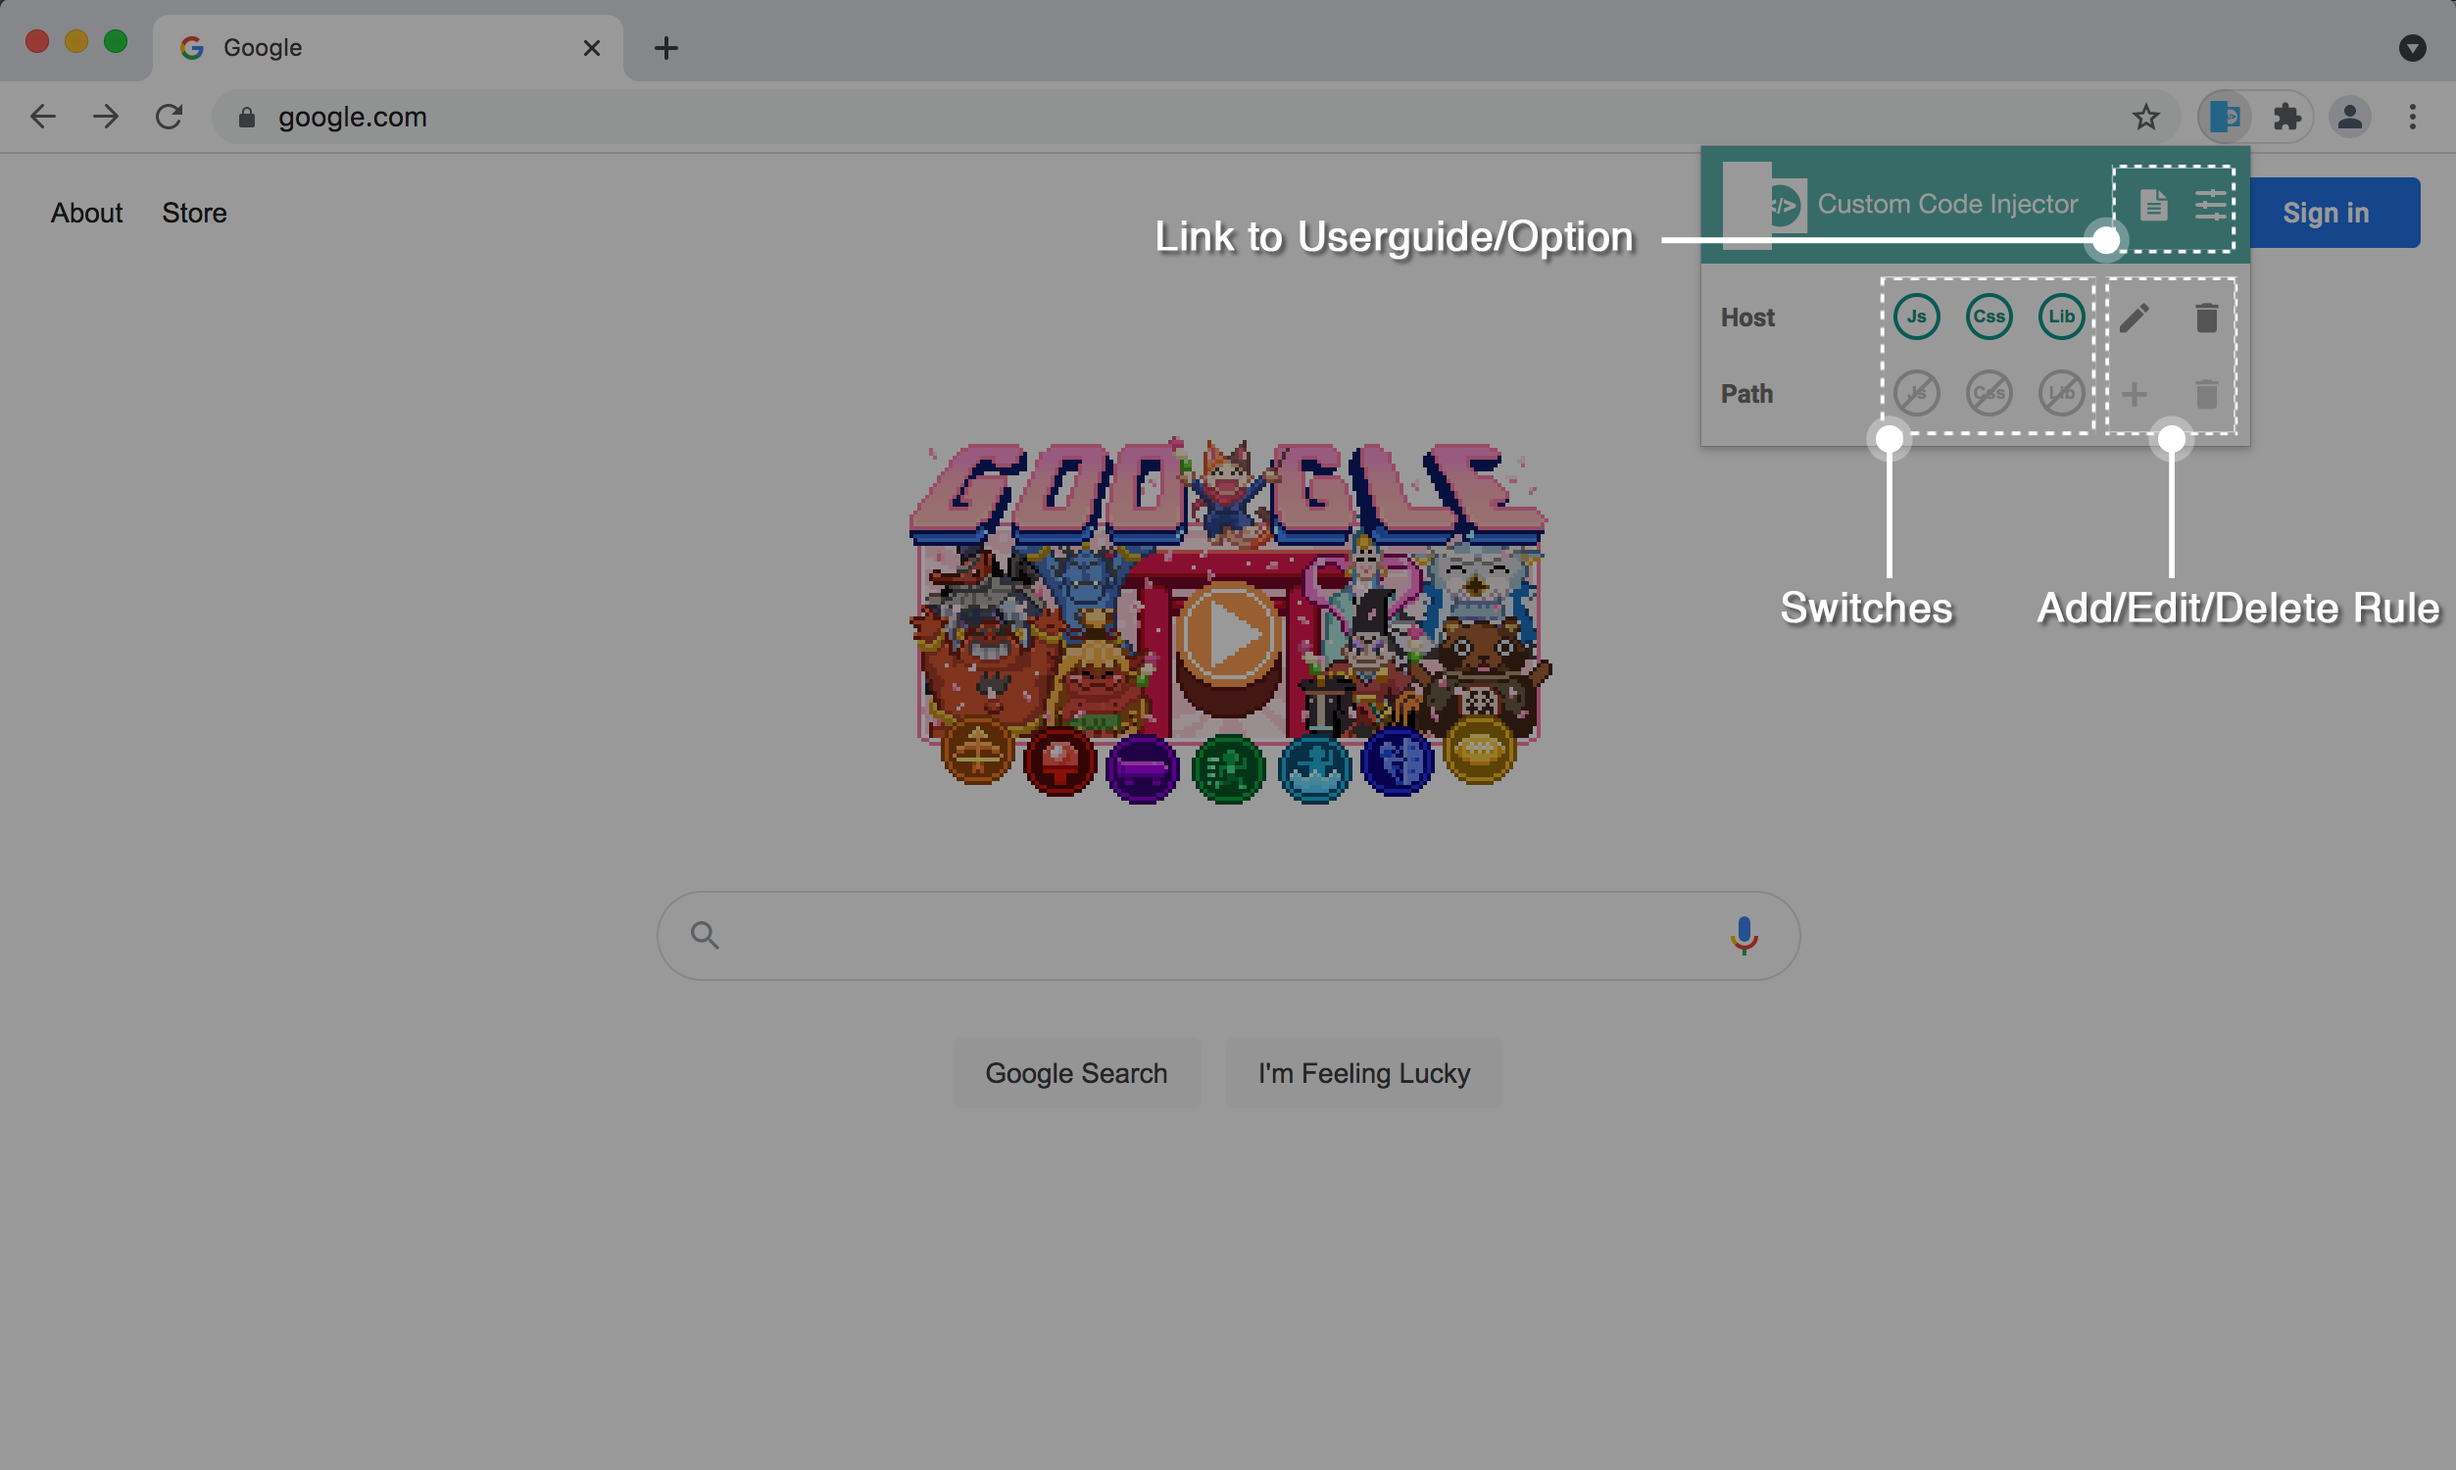
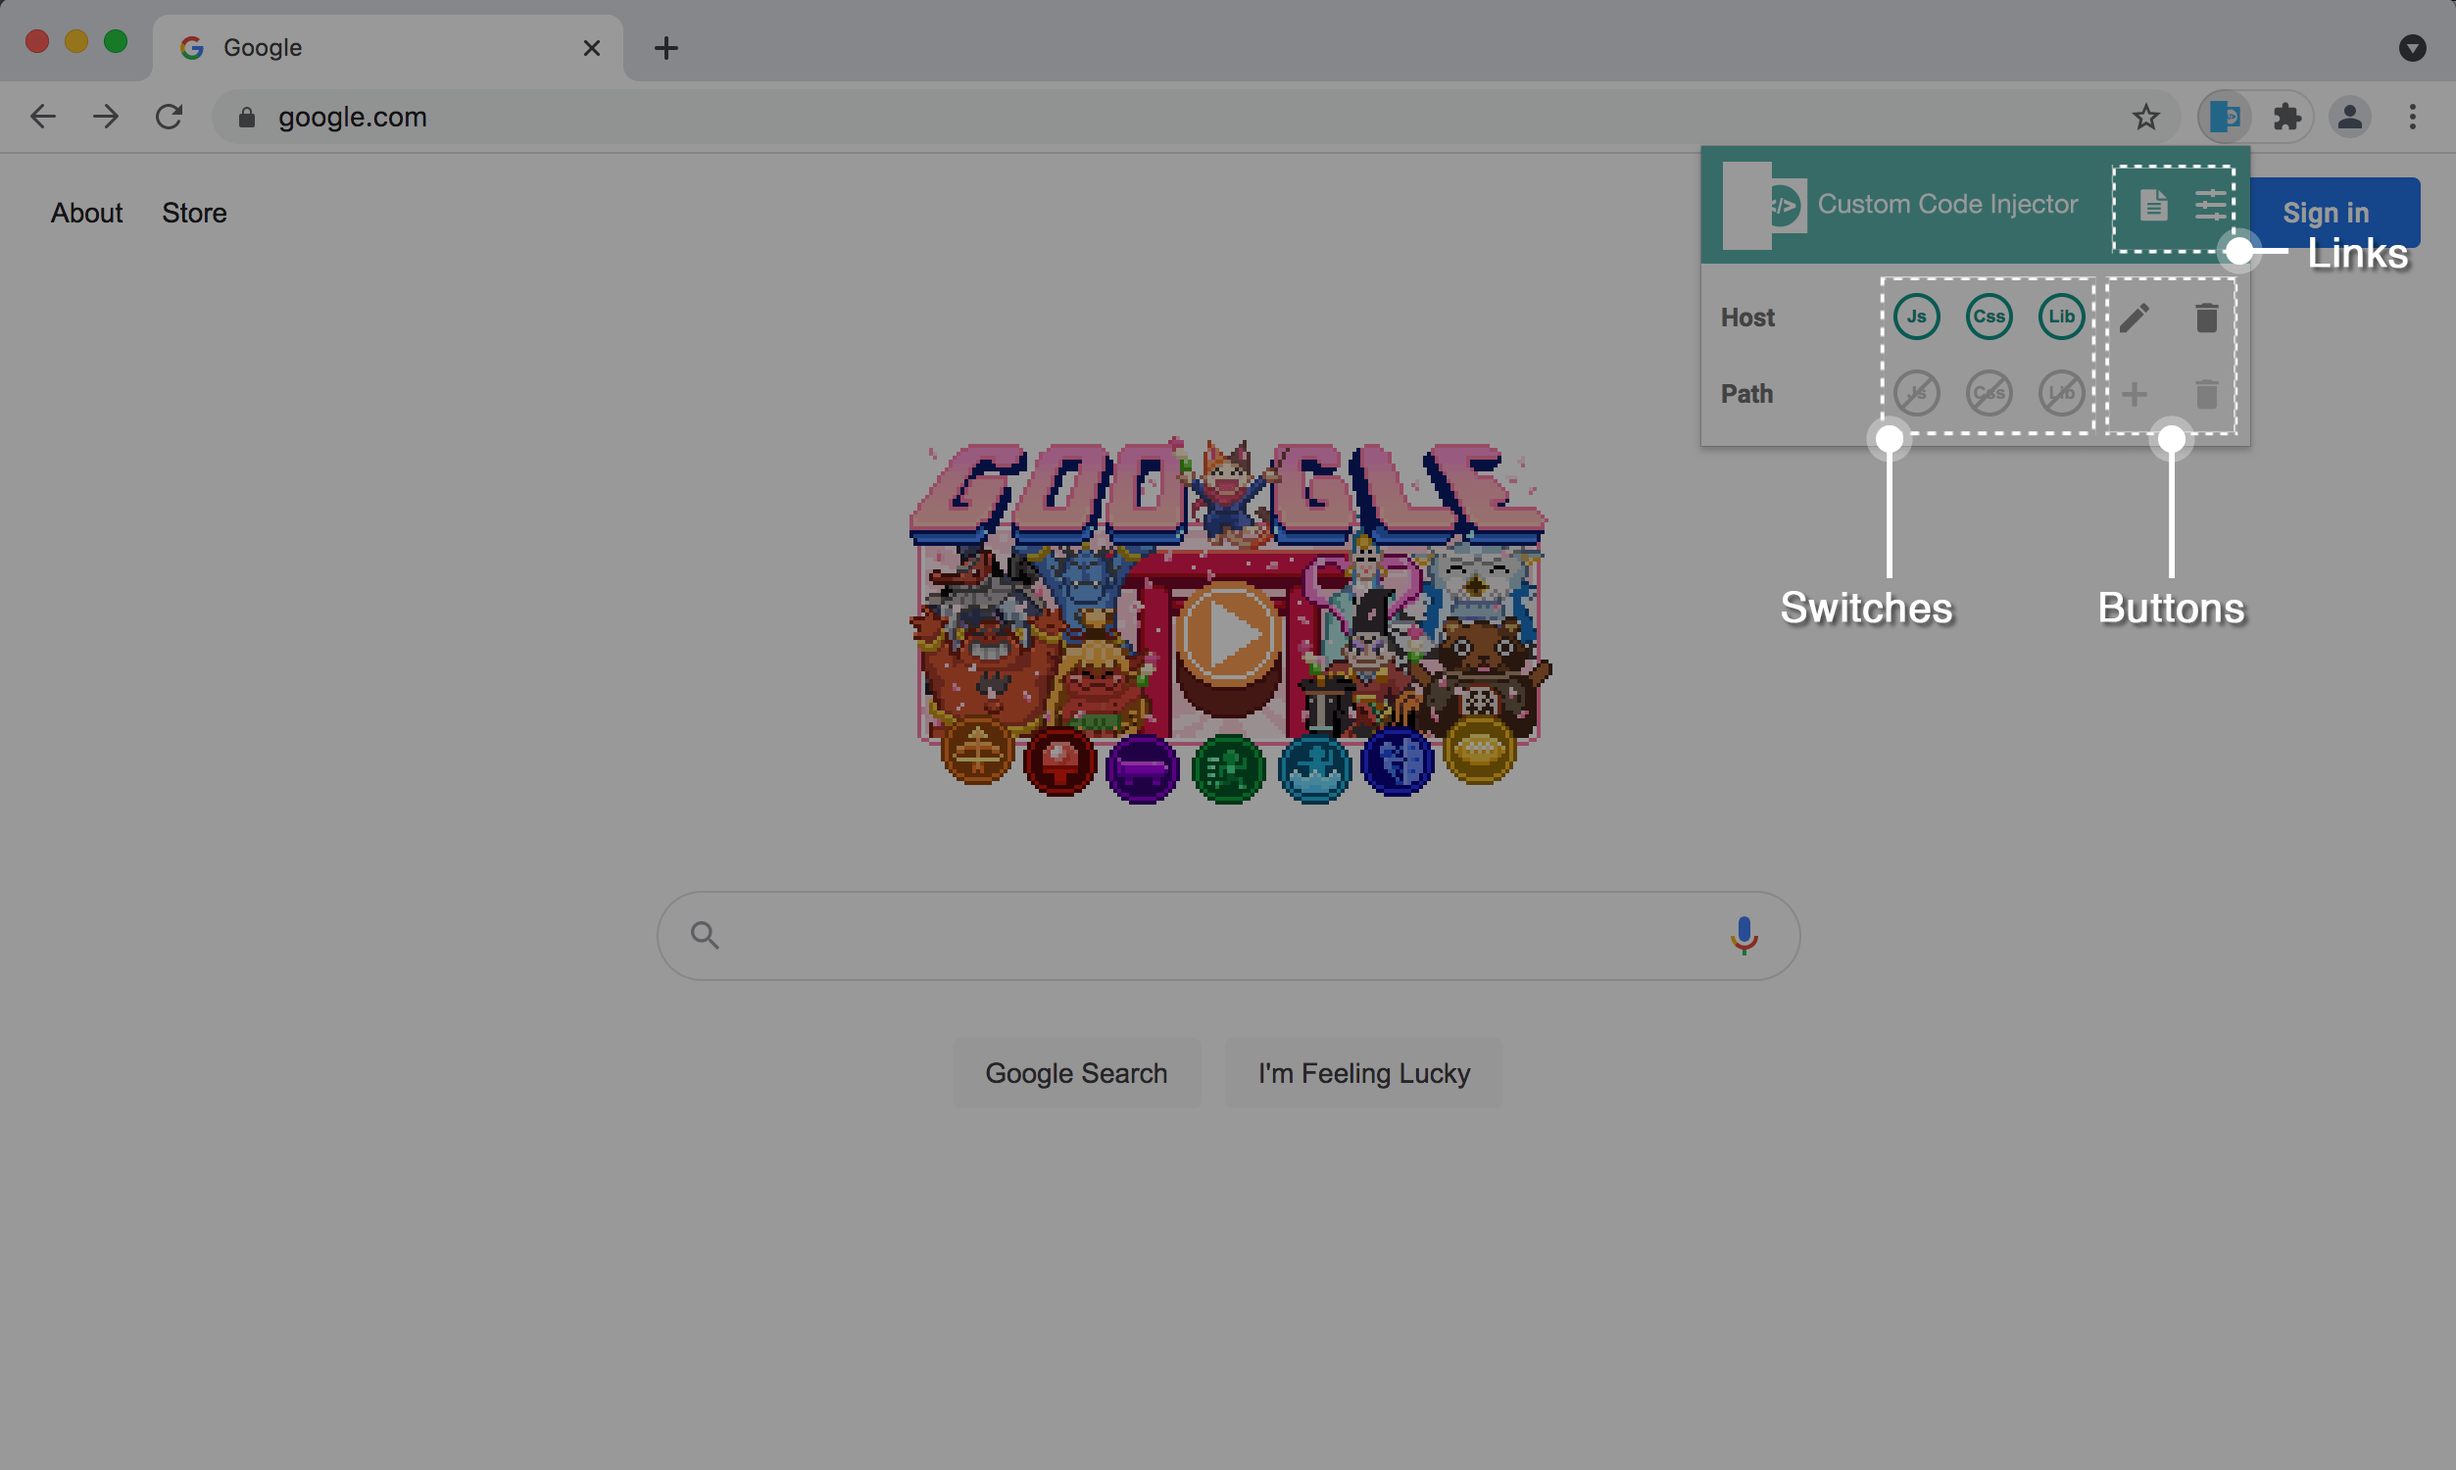
DOC - Userguide: * Fixed header links * Optimized reference images

Changed region(s): [[0.4669, 0.1533, 0.8715, 0.184], [0.8093, 0.3987, 0.996, 0.4293], [0.9026, 0.1533, 0.996, 0.184]]

diff --git a/doc/userguide/README.md b/doc/userguide/README.md
@@ -1,4 +1,4 @@
-# Chrome Extension: Custom Code Injector
+# Userguide for Chrome Extension: Custom Code Injector 
 > User guide and Support page for chrome custom code injector extension
 
 
@@ -14,13 +14,12 @@
     * Extension Option (Edit View)
 * [FAQ](#faq)
 * [Privacy](#privacy)
-* [Issues/Support](#issues\/support)
-* [Release Notes](#eelease-notes)
+* [Issues/Support](#issues-support)
+* [Release Notes](#release-notes)
 
 ----------------
 
 ## About the Extension
-* Another free extension as well as final personal practice project prior to developing a product. Compared to the last css selector capture extension, it is more complex due to the nature of dashboard ui. As per past project, I take care of the work from start to finish, i.e. design to code including 100% test coverage.
 * The plugin gives you control to run custom javascript code, css code as well as 3rd party libraries (javascript/css) on top of a website
 * THe extension comes with a default rule for ycombinator site, have a play to see how it works. You can delete it afterwards.
 * The extension focuses on "pasting" the ready-to-run code in the editor area. The builtin editor is not intended to be a full blown proper editor. For best development experience, please use a proper code editor to write the code and possibly optimize it prior to pasting them.
